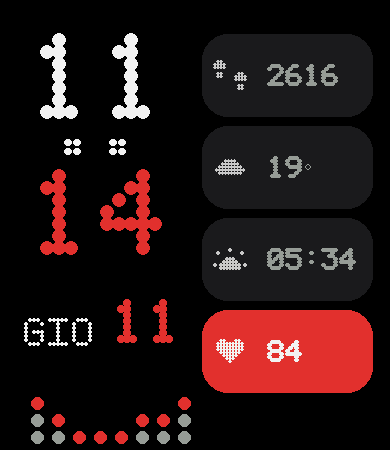
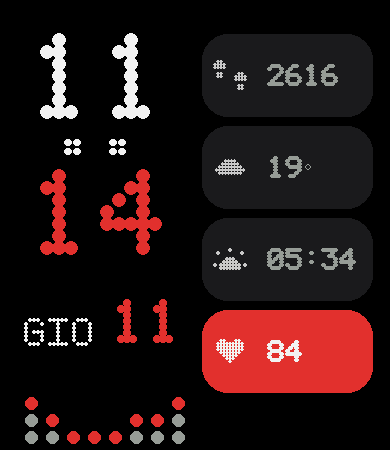
Verticale: equalizer allineato a sx con ore/minuti (EQ_X 30->24)

Changed region(s): [[0.0615, 0.8711, 0.4923, 0.9956]]

diff --git a/watchface/bip-6/index.js b/watchface/bip-6/index.js
@@ -204,7 +204,7 @@ WatchFace({
 
     // ===== EQUALIZER agganciato al battito (fascia sotto la data) =====
     try {
-      const EQ_X = 30, EQ_BASE = 430, EQ_BX = 21, EQ_DY = 17, EQ_BARS = 8, EQ_MAXH = 5;
+      const EQ_X = 24, EQ_BASE = 430, EQ_BX = 21, EQ_DY = 17, EQ_BARS = 8, EQ_MAXH = 5;
       const eqDots = [];
       for (let i = 0; i < EQ_BARS; i++) {
         eqDots[i] = [];

diff --git a/tools/mockup_v_anim.py b/tools/mockup_v_anim.py
@@ -81,7 +81,7 @@ def icy_w(rowY):
 
 
 def draw_eq(d, frame):
-    EQ_X, EQ_BASE, EQ_BX, EQ_DY, EQ_BARS, EQ_MAXH = 30, 430, 21, 17, 8, 5
+    EQ_X, EQ_BASE, EQ_BX, EQ_DY, EQ_BARS, EQ_MAXH = 24, 430, 21, 17, 8, 5
     lvl = max(0.0, min(1.0, (BPM - 50) / 100.0))
     energy = 0.2 + 0.8 * lvl
     speed = 0.18 + 0.5 * lvl